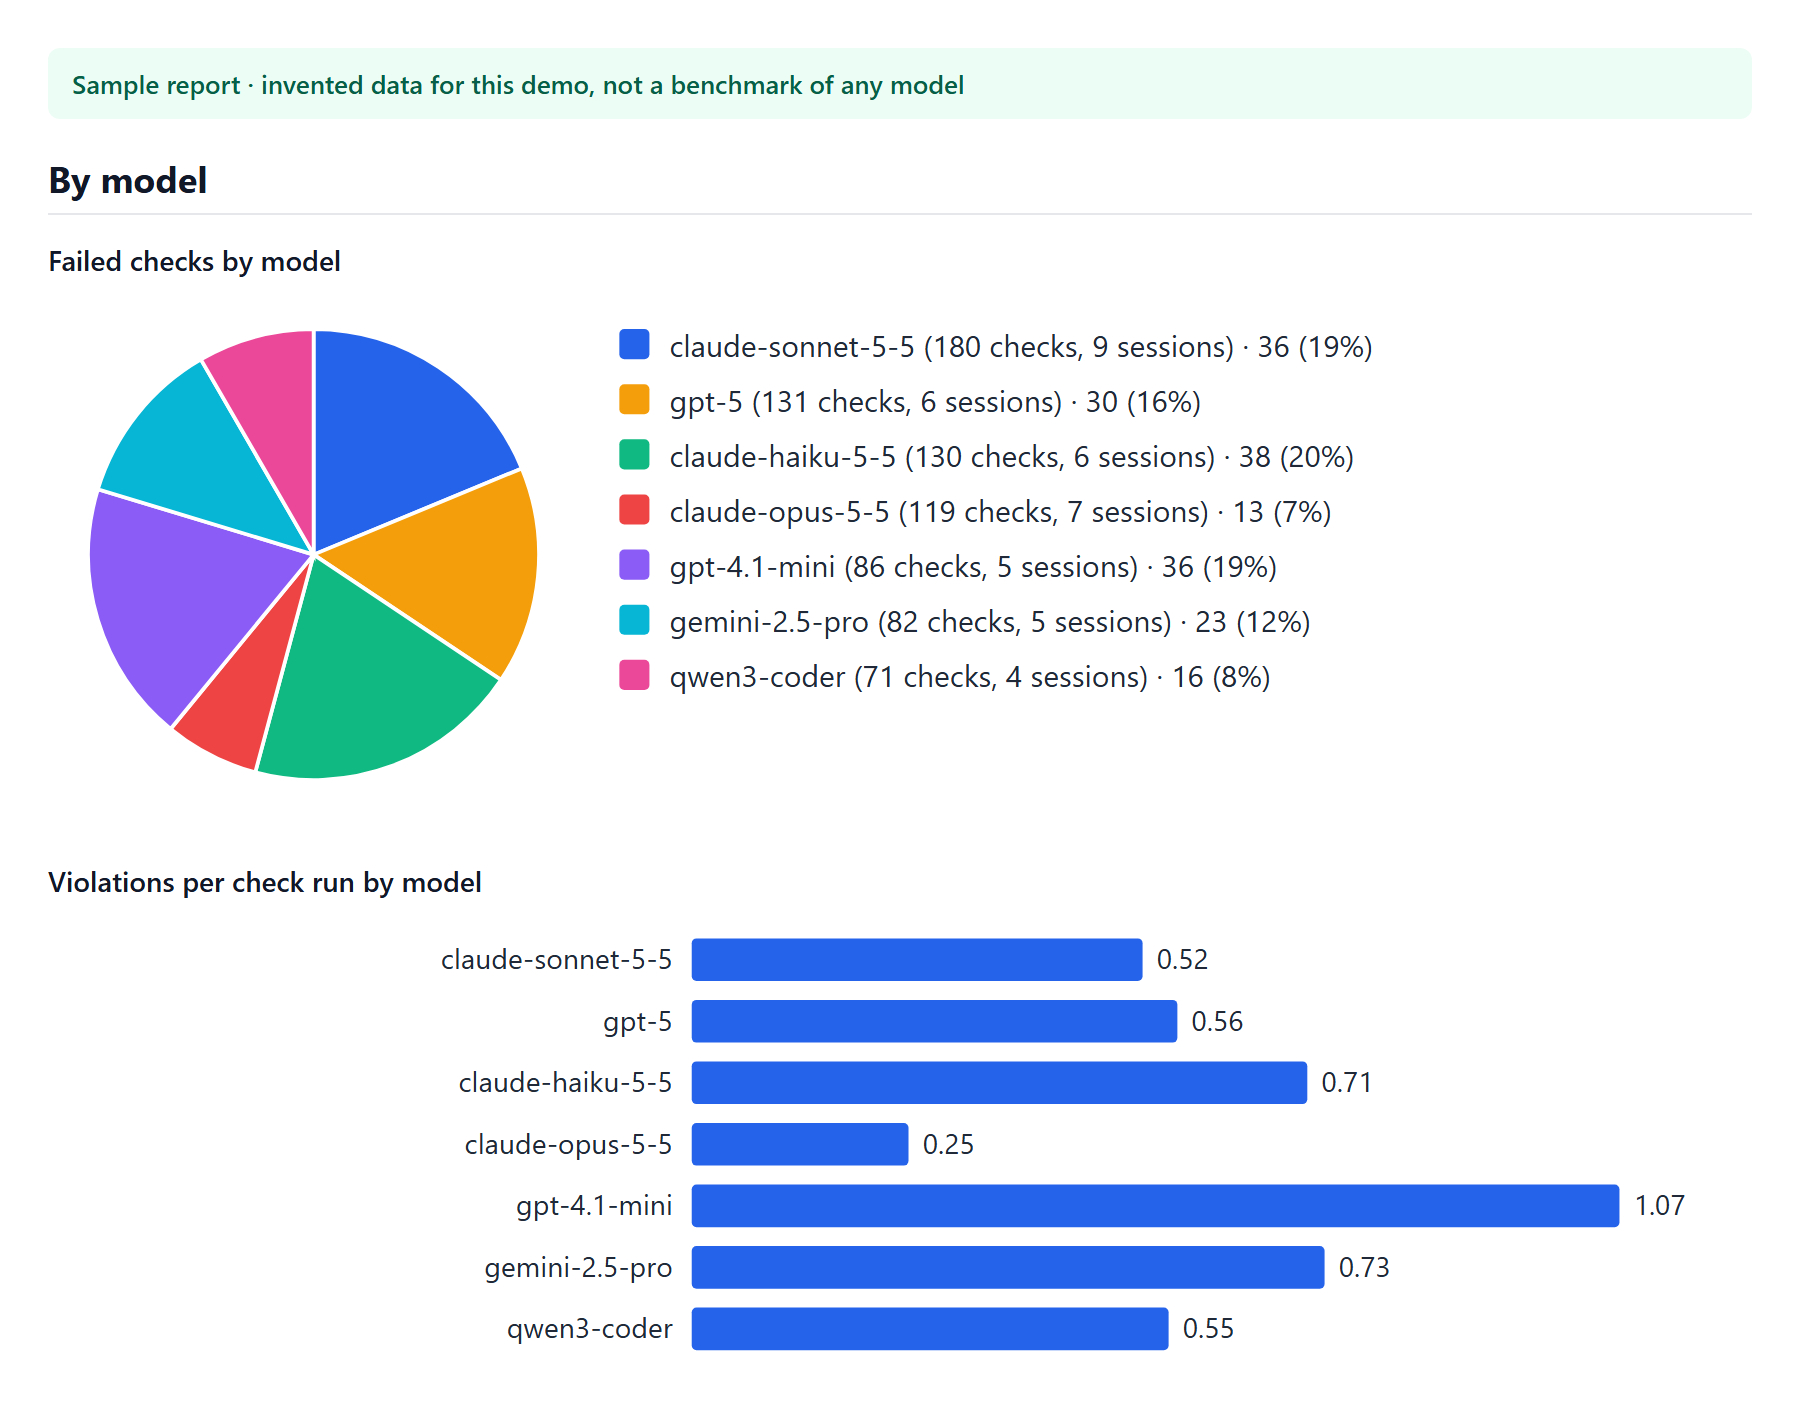
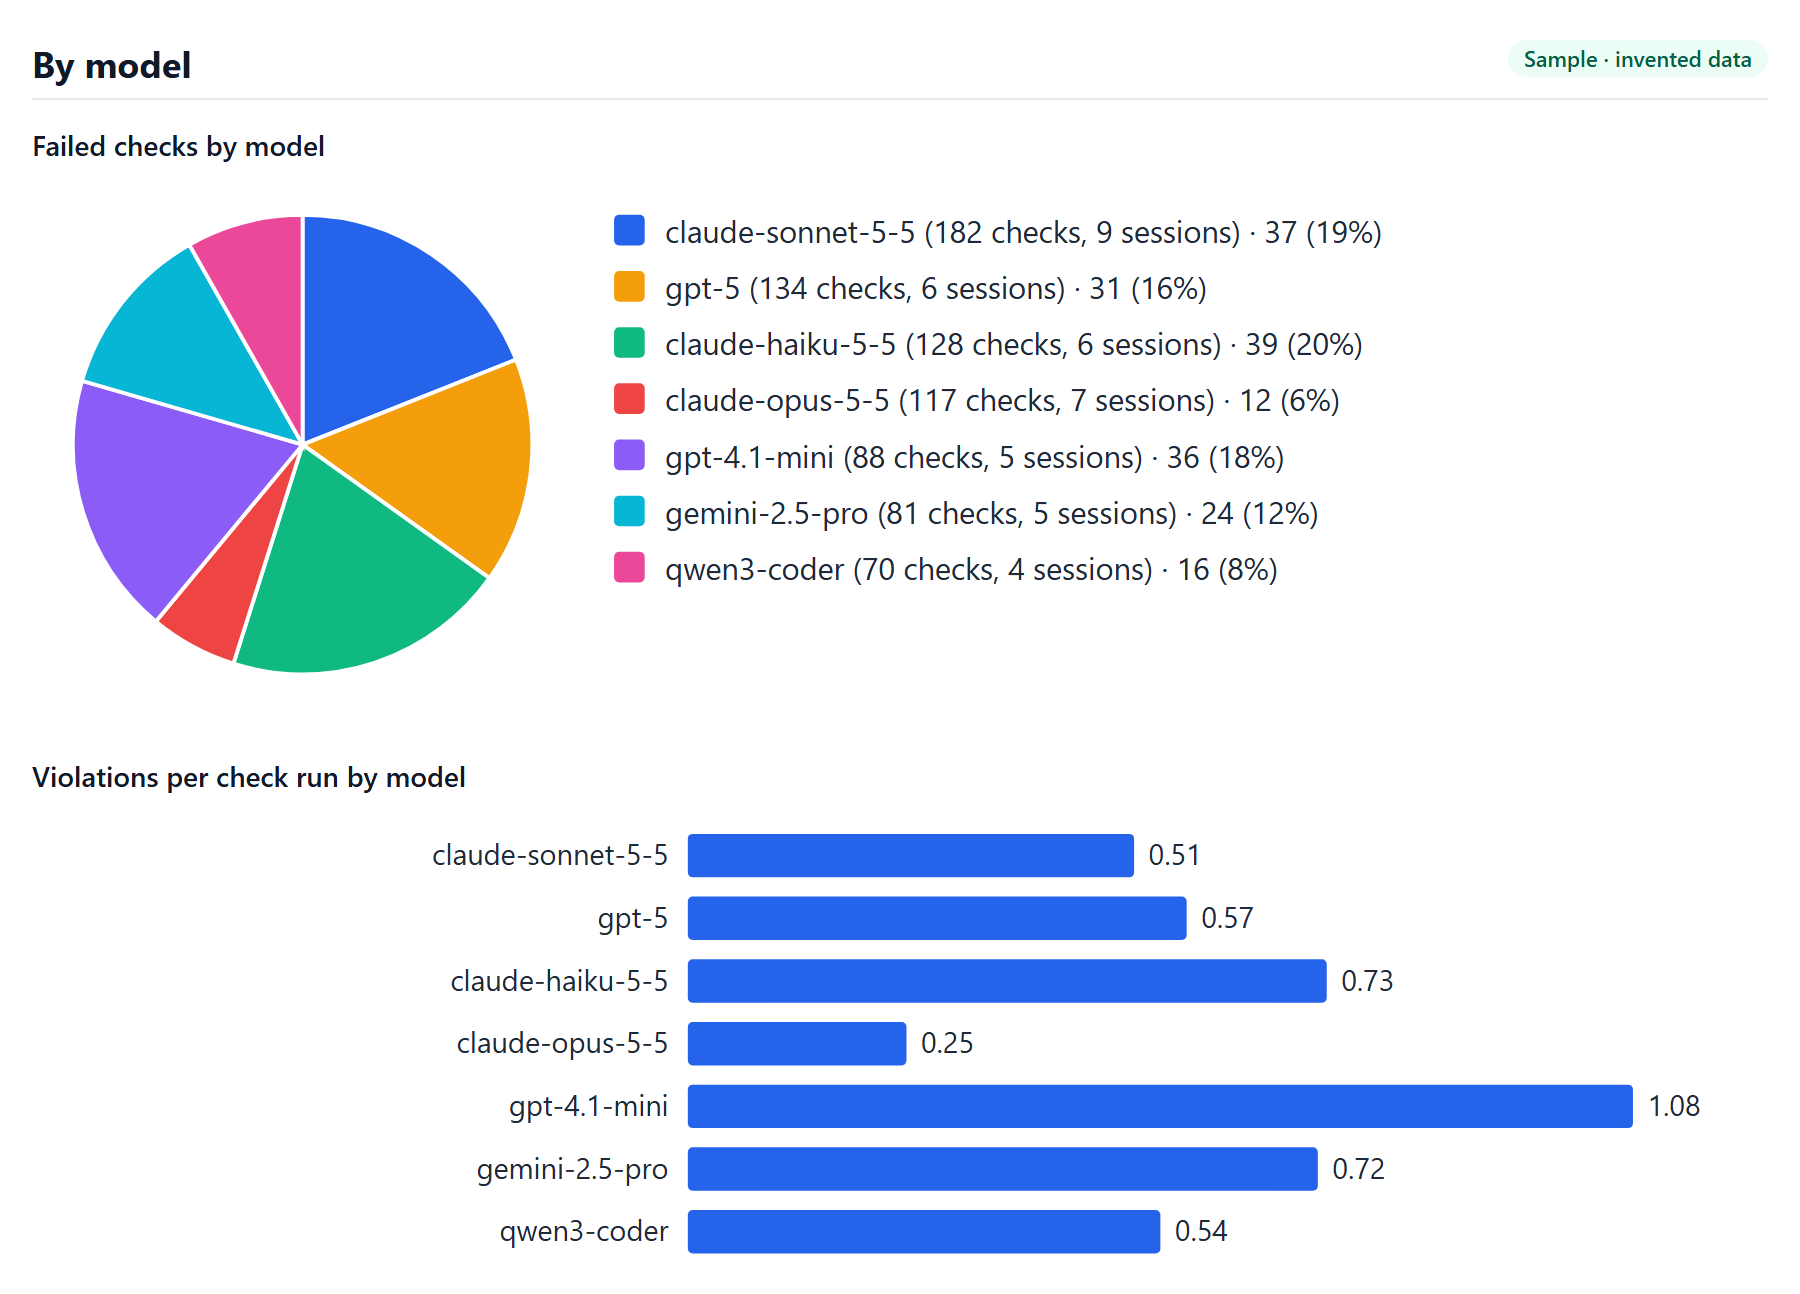
docs: restructure the README to show the agent session and the metrics report first
The README now leads with what Interlint does for the agent and for the team: badges and quick links, an image of an agent session with Interlint's real messages, the reasons to use it, and the metrics report with screenshots of the PDF, the top 20 rules, the models side by side and the weeks. Setup, how it works, configuration and a section for teams follow. Details move to docs/usage.md, which the README links.

The screenshots come from a sample report with invented data, and say so in the images and below them.

diff --git a/README.md b/README.md
@@ -2,47 +2,78 @@
   <img src="assets/logo/interlint-banner.svg" alt="Interlint: your AI agent breaks your project rules. Make it fix them before it moves on." width="100%">
 </h1>
 
-Interlint runs the checks your project **already has**, such as ArchUnit, inside the agent's session. When the agent breaks a rule, it hears about it right away and fixes it in the same session, not in CI and not by hand.
+<p align="center">
+  <a href="https://www.npmjs.com/package/interlint"><img src="https://img.shields.io/npm/v/interlint?color=059669" alt="npm version"></a>
+  <a href="https://github.com/RuloGB/interlint/actions/workflows/ci.yml"><img src="https://github.com/RuloGB/interlint/actions/workflows/ci.yml/badge.svg" alt="CI"></a>
+  <img src="https://img.shields.io/node/v/interlint" alt="Node version">
+  <a href="LICENSE"><img src="https://img.shields.io/npm/l/interlint" alt="MIT license"></a>
+</p>
 
-**Works with [Claude Code](docs/claude-code.md) and [OpenCode](docs/opencode.md)**, on Maven projects that use ArchUnit, Checkstyle, PMD or JaCoCo coverage rules.
+<p align="center">
+  <a href="#quick-start">Quick start</a> ·
+  <a href="#know-which-agents-follow-your-rules">Metrics report</a> ·
+  <a href="#how-it-works">How it works</a> ·
+  <a href="docs/usage.md">Docs</a>
+</p>
 
-> **Status:** 1.13.0. Stable for Maven projects, including multi-module projects and workspaces of several projects.
+**Interlint runs the checks your project already has inside your AI agent's session.** When the agent breaks a rule, it hears about it right away and fixes it before it moves on. Not in CI. Not by hand.
 
-## The problem
+Works with **[Claude Code](docs/claude-code.md)** and **[OpenCode](docs/opencode.md)**, on Maven projects that use **ArchUnit, Checkstyle, PMD or JaCoCo** coverage rules.
 
-Your code rules live in two places that never meet:
+The agent puts infrastructure code in the domain. Interlint tells it right away, with the rule, the file and the line. The agent fixes it and carries on:
 
-- **As text in `AGENTS.md`.** The agent may forget it, and nobody enforces it.
-- **As checks** (ArchUnit tests, Checkstyle, PMD, JaCoCo coverage rules). The agent only hears about them when someone builds or CI fails.
+<p align="center">
+  <img src="assets/demo/agent-session.svg" alt="An agent session. The agent edits Order.java in the domain. Interlint sends it: ✗ architecture · ARCH-01: domain depends on nothing outside domain. Method Order.toEntity() calls constructor OrderEntity.init() in (Order.java:27), at src/main/java/com/acme/domain/Order.java:27. Fix these problems before continuing. The agent moves the mapping to infrastructure. At task end Interlint shows: ✓ Interlint · checks passed: architecture (3.1s), checkstyle (1.2s), pmd (6.8s)." width="100%">
+</p>
 
-By then the agent's session is over, and someone has to fix the code by hand.
+## Why Interlint
 
-## What Interlint does
+- **Your rules, enforced.** Interlint has no rules of its own. It runs your ArchUnit tests, Checkstyle, PMD and JaCoCo coverage rules, so your build stays the single source of truth.
+- **Fixed while the context is fresh.** Checks run after edits, so the agent fixes a violation before it builds more code on top of it.
+- **No green, no done.** At task end every check runs. The agent cannot finish while a rule is broken.
+- **One command to set up.** `interlint init` finds your checks and wires your agent.
+- **Know your agents.** A [metrics report](#know-which-agents-follow-your-rules) shows which models follow your rules, and which rules they break most.
+- **Private by design.** No telemetry, no account, no server, no network calls.
 
-- **After each edit,** Checkstyle checks the changed files and any violation goes straight back to the agent. ArchUnit and PMD, which are slower, run after 5 edited files or 100 written lines, whichever comes first. You can change when each check runs in `interlint.yaml`: see [Make it fit your team](#make-it-fit-your-team). This needs [`mvnd`](#install-mvnd-strongly-recommended).
-- **At task end,** every check runs for the projects the agent changed, including the [JaCoCo coverage rules](docs/usage.md#jacoco-coverage) of your `pom.xml`. If a rule is broken, the agent cannot finish until everything is green.
+## Know which agents follow your rules
 
-This is what the agent sees when it puts infrastructure code in the domain:
+Your team uses several models and agents. Which ones follow your rules? Which rules do they break most? Is it getting better?
 
-```text
-✗ architecture · ARCH-01: domain depends on nothing outside domain
+`interlint metrics report` answers that in one report, with charts, ready to share with your team or a client.
 
-  Method <com.acme.domain.Order.toEntity()> calls constructor <com.acme.infra.OrderEntity.<init>()> in (Order.java:27)
-    at src/main/java/com/acme/domain/Order.java:27
+<p align="center">
+  <img src="assets/screenshots/metrics-report-pdf.png" alt="Three pages of the PDF metrics report: headline figures and totals, the top 20 rules, and the models side by side. Sample report with invented data." width="100%">
+</p>
 
-Fix these problems before continuing.
+**The rules your agents break most.** The top 20, by type: architecture, Checkstyle, PMD and coverage. Fix the prompt, the `AGENTS.md` or the rule itself where it hurts most.
+
+<p align="center">
+  <img src="assets/screenshots/metrics-report-top-rules.png" alt="Bars of the 10 most broken rules and a table of the top 20, with their violations and type. Sample report with invented data." width="680">
+</p>
+
+**The models side by side.** Failed checks by model, and violations per check run: the fair comparison, since a model you use more fails more often.
+
+<p align="center">
+  <img src="assets/screenshots/metrics-report-by-model.png" alt="Pie chart of failed checks by model, with the checks and sessions behind each model, and bars of violations per check run by model. Sample report with invented data." width="680">
+</p>
+
+**Week by week.** Checks run and violations, to see whether your rules and prompts are working.
+
+<p align="center">
+  <img src="assets/screenshots/metrics-report-over-time.png" alt="Bars of checks run and a line of violations, week by week. Sample report with invented data." width="680">
+</p>
+
+<p align="center"><sub>Sample report with <strong>invented data</strong>, made for this demo. It is not a benchmark of any model.</sub></p>
+
+The report also shows how often each model tried to finish with a broken rule and fixed it in the same session, and how long your checks take.
+
+```bash
+interlint metrics report                 # Markdown, with charts GitHub draws
+interlint metrics report --format html   # one page that opens anywhere, offline
+interlint metrics report --format pdf    # a PDF to send
 ```
 
-The agent reads the rule, removes the dependency and carries on.
-
-## Why teams use it
-
-- **No new rules to write.** Interlint has no rules and no analysis engine of its own. Your existing checks stay the single source of truth.
-- **Deterministic.** Your own build decides, not a prompt the agent may ignore.
-- **Feedback when it is cheap.** The agent fixes the violation while it still has the context, before it builds on top of it.
-- **One command to set up.** `interlint init` finds your ArchUnit tests, your Checkstyle and PMD plugins and your JaCoCo `check` goal, and wires your agent.
-- **No endless loops.** After 3 failed attempts in a row, Interlint lets the task end and shows you what is still failing.
-- **Know your agents.** A [metrics report](#metrics-report) shows which models follow your rules best, and which rules your agents break most.
+The PDF is printed with the Chrome, Edge or Chromium you already have, so Interlint adds no dependency. For a quick look in the terminal, run `interlint metrics`. See [Metrics](docs/usage.md#metrics) for every option.
 
 ## Quick start
 
@@ -54,34 +85,29 @@ Requires Node 22 or later and a Maven project with ArchUnit tests, or with Check
    npm install -g interlint
    ```
 
-2. In the root of your project, or of a workspace that holds several Maven projects, set up your agent.
-
-   For **Claude Code**:
+2. In the root of your project, or of a workspace that holds several Maven projects, set up your agent:
 
    ```bash
-   interlint init --agent claude-code
-   ```
-
-   For **OpenCode**:
-
-   ```bash
-   interlint init --agent opencode
+   interlint init --agent claude-code   # or: --agent opencode
    ```
 
 3. Commit the generated `interlint.yaml` (and `.claude/settings.json` or `.opencode/`), then start your agent as usual.
 
-### Install mvnd (strongly recommended)
-
 > [!IMPORTANT]
-> Without [`mvnd`](https://github.com/apache/maven-mvnd) on your `PATH`, Interlint cannot check after each edit. Checkstyle waits for task end too, so the agent only hears about a broken rule when it tries to finish, after it may have built more code on top of it.
+> **Install [`mvnd`](https://github.com/apache/maven-mvnd) too.** It keeps Maven running between checks, which makes checks after each edit fast enough. Without it on your `PATH`, every check waits for task end, after the agent may have built more code on top of a broken rule. Interlint finds `mvnd` on its own: there is nothing to configure.
 
-`mvnd` keeps Maven running between checks, which makes a check after each edit fast enough, and every check at task end faster. Install it following the instructions in [its repository](https://github.com/apache/maven-mvnd). Interlint finds it on its own: there is nothing to change in `interlint.yaml`.
+## How it works
+
+| When | What runs | What the agent gets |
+|---|---|---|
+| **After each edit** | Checkstyle, on the changed files. ArchUnit and PMD, which are slower, after 5 edited files or 100 written lines. Needs `mvnd`. | The violations, right away, in the same session. |
+| **At task end** | Every check of the projects the agent changed, including the [JaCoCo coverage rules](docs/usage.md#jacoco-coverage) of your `pom.xml`. | It cannot finish until everything is green. |
+
+**No endless loops.** After 3 blocks in a row, Interlint lets the task end and shows you what is still failing.
 
 ## Make it fit your team
 
-`interlint.yaml` decides what Interlint does. `init` writes a starting point; the file is yours to edit, and you commit it so the whole team gets the same behavior.
-
-Each check says when it runs:
+`interlint.yaml` decides when each check runs. `init` writes a starting point; the file is yours to edit, and you commit it so the whole team gets the same behavior.
 
 | Field | What it does |
 |---|---|
@@ -90,9 +116,7 @@ Each check says when it runs:
 | `every: <n>` | With `when: edit`, waits until `n` distinct source files were edited. |
 | `lines: <n>` | With `when: edit`, waits until `n` lines were written in its sources. |
 
-With both `every` and `lines`, the check runs at whichever comes first. With neither, it runs after each edit. Whatever the setting, every check still runs at task end for the projects the agent changed, so nothing is left unchecked.
-
-For example, to run ArchUnit only once the agent has written 200 lines, whatever the number of files, and leave it to task end otherwise:
+For example, to run ArchUnit once the agent has written 200 lines, so a log line in three files waits for task end but a new feature does not:
 
 ```yaml
 checks:
@@ -103,52 +127,18 @@ checks:
     lines: 200
 ```
 
-Some common choices:
-
-- **Small edits wait for task end:** keep only `lines`, as above. A log line in three files does not run the check; a new feature does.
-- **Many files, any size:** keep only `every`.
-- **Fast feedback on every edit:** remove `every` and `lines`.
-- **Only at the end:** set `when: task-end`.
-
-Only added or changed lines count, not removed ones. When a check fails after an edit, it runs again after each next edit of its sources until it passes, then counts from zero. Maven checks need [`mvnd`](#install-mvnd-strongly-recommended) to run after edits. `init` never overwrites your edited `interlint.yaml` unless you pass `--force`.
+With both `every` and `lines`, the check runs at whichever comes first. With neither, it runs after each edit. Whatever the setting, every check still runs at task end, so nothing is left unchecked. `init` never overwrites your edited `interlint.yaml` unless you pass `--force`.
 
 See [Every N files or lines](docs/usage.md#every-n-files-or-lines) for the full rules, and [Using Interlint](docs/usage.md) for every field, such as `run`, `report` and `dir`.
 
-## Metrics report
+## Built for teams
 
-Your team uses several models and agents. Which ones follow your rules? Which rules do they break most? Do they fix a blocked task, or give up?
-
-`interlint metrics report` answers that in one report, with charts, ready to share with your team or a client:
-
-```bash
-interlint metrics report                 # Markdown, with charts GitHub draws
-interlint metrics report --format html   # one page that opens anywhere, offline
-interlint metrics report --format pdf    # a PDF to send
-```
-
-<p align="center">
-  <img src="assets/screenshots/metrics-report-by-model.png" alt="Pie chart of failed checks by model, with the checks and sessions behind each model, and bars of violations per check run by model. Sample report with invented data." width="720">
-</p>
-
-<p align="center">
-  <img src="assets/screenshots/metrics-report-over-time.png" alt="Bars of checks run and a line of violations, week by week. Sample report with invented data." width="720">
-</p>
-
-<p align="center"><sub>Sample report with <strong>invented data</strong>, made for this demo. It is not a benchmark of any model.</sub></p>
-
-The report has:
-
-- **The models side by side.** A pie of the failed checks by model, each with the checks and sessions behind it, and bars of violations per check run. The pie shows who fails most in total; the bars are the fair comparison, since a model you use more fails more often.
-- **The rules your agents break most,** by type (ArchUnit, Checkstyle, PMD, coverage) and one by one.
-- **Task-end blocks:** how often each model tried to finish with a broken rule, and how often it fixed it in the same session.
-- **The time your checks take,** at edit and at task end.
-- **Week by week:** checks run and violations, to see whether your rules and prompts are working.
-
-The PDF is printed with the Chrome, Edge or Chromium you already have, so Interlint adds no dependency. Without one, use `--format html` and print it from your browser.
-
-For a quick look in the terminal, run `interlint metrics`. Both commands read the current project, or every project with `--all`, and take `--since <YYYY-MM-DD>` and `--agent`.
-
-**Your data never leaves your machine.** Interlint has no telemetry, no account and no server, and it makes no network calls. Metrics are plain files in your user's state directory, never in the project, and the report is built from them on your machine. They keep only what the report needs: the check, its result and time, the rule, type and file of each violation, and the agent, model and session that ran it. Never your code, the violation messages or anything personal. To keep none, set `metrics: false` in `interlint.yaml`. See [Metrics](docs/usage.md#metrics) for every option.
+- **The same checks for everyone.** `interlint.yaml` and the agent setup live in the repository, so every developer and every agent runs the same rules.
+- **Deterministic.** Your own build decides, not a prompt the agent may ignore.
+- **Your data never leaves your machine.** Metrics are plain files in your user's state directory, never in the project. They keep only the check, its result and time, the rule, type and file of each violation, and the agent, model and session. Never your code, the violation messages or anything personal. To keep none, set `metrics: false`.
+- **No lock-in.** Interlint adds no rules. Remove it, and your checks still run in your build and CI as before.
+- **Windows, Linux and macOS.** CI tests every change on all three.
+- **Open source.** [MIT](LICENSE) licensed.
 
 ## Supported today
 
@@ -157,18 +147,18 @@ For a quick look in the terminal, run `interlint metrics`. Both commands read th
 | Agents | Claude Code, OpenCode V2 |
 | Checks | ArchUnit, Checkstyle, PMD, JaCoCo coverage rules (at task end) |
 | Build | Maven, with or without the Maven Wrapper; `mvnd` for checks after each edit |
-| Layout | One project, a multi-module reactor, or a workspace of several Maven projects (other projects in it are ignored) |
+| Layout | One project, a multi-module reactor, or a workspace of several Maven projects |
 
-## Known limits
+Known limits:
 
 - Only Maven projects.
-- PMD cannot be limited to one file from the command line, so it checks the whole project each time it runs. `init` gives it [`every: 5` and `lines: 100`](docs/usage.md#every-n-files-or-lines): it waits for 5 edited files or 100 written lines and shows the failures of all of them.
+- PMD cannot be limited to one file from the command line, so it checks the whole project each time it runs. `init` gives it [`every: 5` and `lines: 100`](docs/usage.md#every-n-files-or-lines), so it waits for 5 edited files or 100 written lines and shows the failures of all of them.
 
 ## Documentation
 
 - [Using Interlint](docs/usage.md): `init`, `interlint.yaml`, `check`, `metrics` and exit codes.
-- [OpenCode](docs/opencode.md): the plugin, what it does after edits and at turn end, and subagents.
 - [Claude Code](docs/claude-code.md): the hooks, their exit codes, the retry limit and subagents.
+- [OpenCode](docs/opencode.md): the plugin, what it does after edits and at turn end, and subagents.
 - [Development](docs/development.md): building, testing and packing Interlint.
 
 ## License
